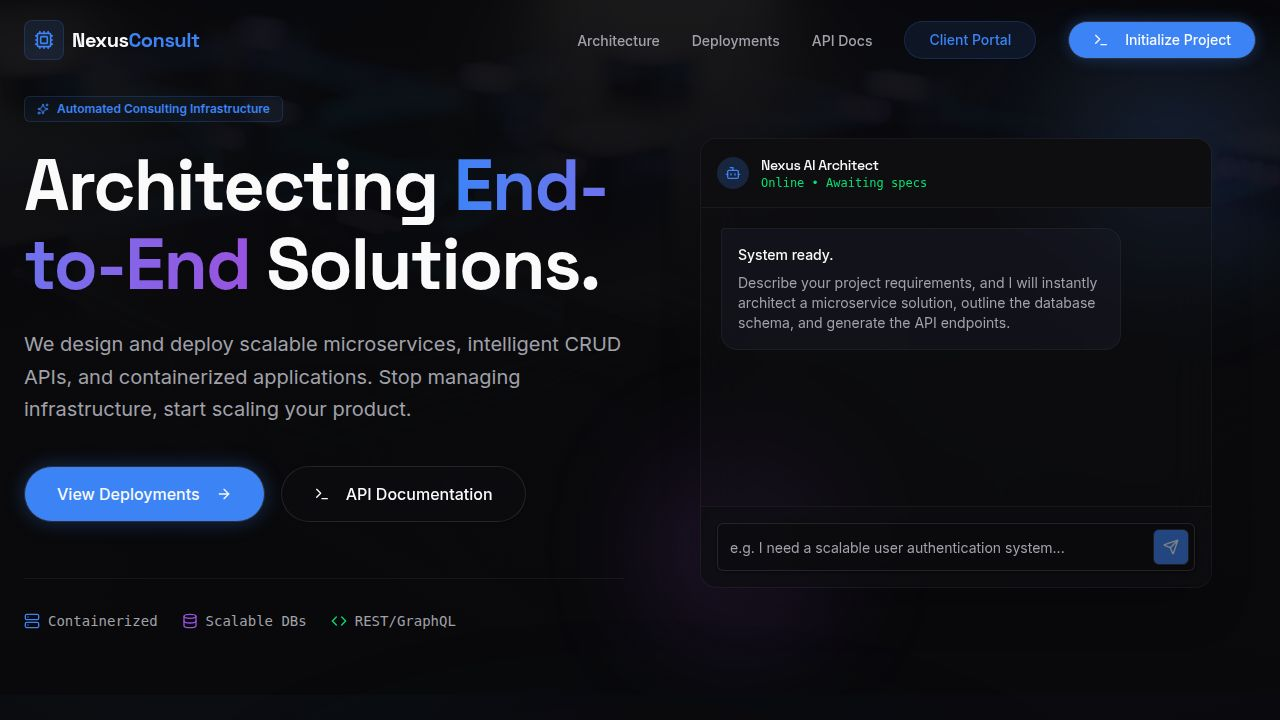
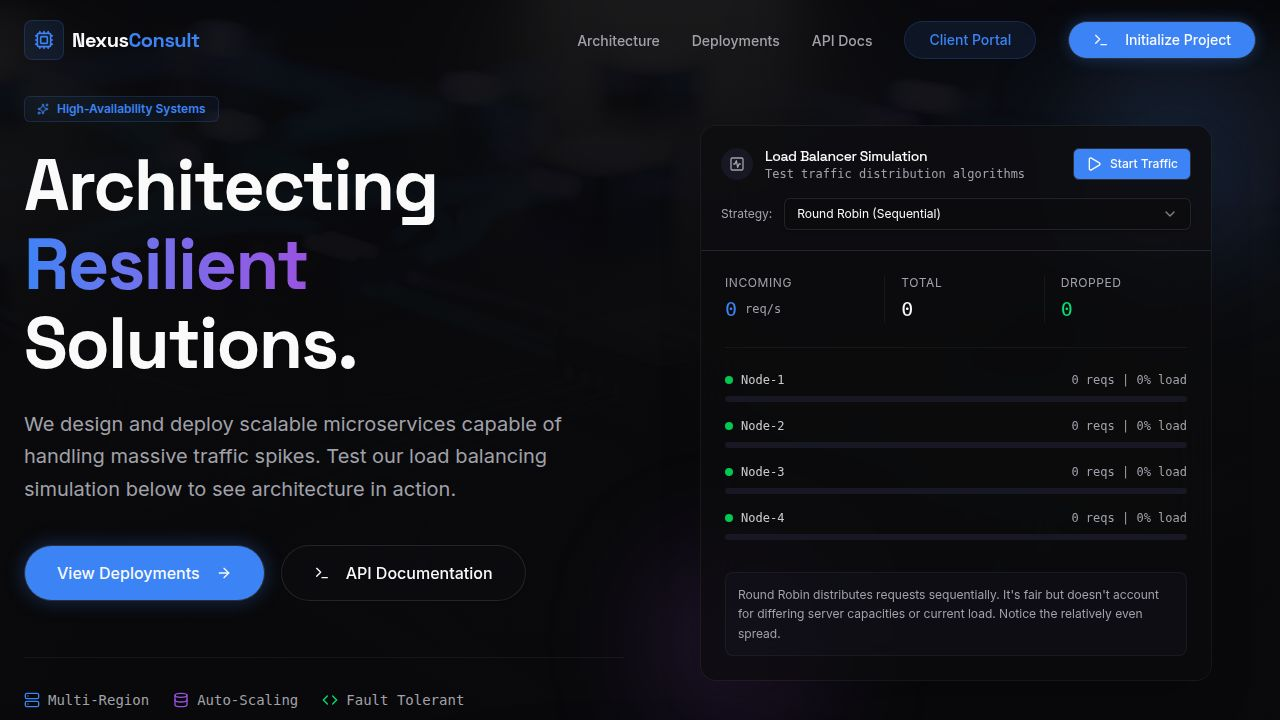
Add interactive load balancing simulation to the hero section
Implement a load balancing simulation in the Hero component, allowing users to select strategies, observe traffic distribution, and view server node status and request metrics.

Replit-Commit-Author: Agent
Replit-Commit-Session-Id: 9b6711e3-de68-4234-9d44-82d5e78eec95
Replit-Commit-Checkpoint-Type: full_checkpoint
Replit-Commit-Event-Id: 68152793-b1af-4ed9-ad91-70a6f91f9cd5
Replit-Commit-Screenshot-Url: https://storage.googleapis.com/screenshot-production-us-central1/11358069-3e3b-41a1-8bfe-d33e924d566b/9b6711e3-de68-4234-9d44-82d5e78eec95/DHx5FhI
Replit-Helium-Checkpoint-Created: true

diff --git a/client/src/components/sections/Hero.tsx b/client/src/components/sections/Hero.tsx
@@ -1,28 +1,147 @@
-import { useState } from "react";
+import { useState, useEffect } from "react";
 import { Button } from "@/components/ui/button";
-import { Input } from "@/components/ui/input";
 import { Badge } from "@/components/ui/badge";
-import { ArrowRight, Bot, Code, Database, Server, Terminal, Sparkles, Send } from "lucide-react";
+import { ArrowRight, Server, Database, Code, Terminal, Sparkles, Activity, Play, ActivitySquare } from "lucide-react";
 import heroBg from "@/assets/images/hero-bg.png";
+import { Select, SelectContent, SelectItem, SelectTrigger, SelectValue } from "@/components/ui/select";
+import { Progress } from "@/components/ui/progress";
+
+type LoadBalancerStrategy = 'round-robin' | 'least-connections' | 'ip-hash';
+
+interface ServerNode {
+  id: number;
+  load: number;
+  status: 'healthy' | 'warning' | 'critical';
+  requestsProcessed: number;
+}
 
 export function Hero() {
-  const [inquiry, setInquiry] = useState("");
-  const [chatResponse, setChatResponse] = useState<{role: 'user' | 'bot', text: string} | null>(null);
+  const [strategy, setStrategy] = useState<LoadBalancerStrategy>('round-robin');
+  const [isSimulating, setIsSimulating] = useState(false);
+  const [trafficRate, setTrafficRate] = useState(0);
+  const [totalRequests, setTotalRequests] = useState(0);
+  const [droppedRequests, setDroppedRequests] = useState(0);
+  
+  const [servers, setServers] = useState<ServerNode[]>([
+    { id: 1, load: 0, status: 'healthy', requestsProcessed: 0 },
+    { id: 2, load: 0, status: 'healthy', requestsProcessed: 0 },
+    { id: 3, load: 0, status: 'healthy', requestsProcessed: 0 },
+    { id: 4, load: 0, status: 'healthy', requestsProcessed: 0 },
+  ]);
 
-  const handleSimulateInquiry = (e: React.FormEvent) => {
-    e.preventDefault();
-    if (!inquiry) return;
+  // Simulation Logic
+  useEffect(() => {
+    let interval: NodeJS.Timeout;
     
-    setChatResponse({ role: 'user', text: inquiry });
-    
-    // Simulate automated response
-    setTimeout(() => {
-      setChatResponse({ 
-        role: 'bot', 
-        text: "Analyzing request... I've identified your need as a 'Microservice Architecture Upgrade'. A containerized cluster with load balancing would reduce latency by 40%. Would you like me to provision a demo environment?" 
-      });
-      setInquiry("");
-    }, 1200);
+    if (isSimulating) {
+      // Incoming traffic simulation
+      interval = setInterval(() => {
+        const incomingBurst = Math.floor(Math.random() * 50) + 10;
+        setTrafficRate(incomingBurst * 10); // requests per second calc
+        setTotalRequests(prev => prev + incomingBurst);
+        
+        setServers(currentServers => {
+          let nextServers = [...currentServers];
+          
+          // Apply load based on strategy
+          if (strategy === 'round-robin') {
+            // Evenly distribute but randomly assign to simulate real world variance
+            const baseLoad = incomingBurst / nextServers.length;
+            nextServers = nextServers.map(s => {
+              const newLoad = Math.min(100, s.load + baseLoad + (Math.random() * 5 - 2));
+              return {
+                ...s,
+                load: newLoad > 0 ? newLoad : 0,
+                requestsProcessed: s.requestsProcessed + Math.floor(baseLoad),
+                status: newLoad > 85 ? 'critical' : newLoad > 65 ? 'warning' : 'healthy'
+              };
+            });
+          } else if (strategy === 'least-connections') {
+            // Find server with least load
+            for (let i = 0; i < incomingBurst; i++) {
+              const leastLoadedIdx = nextServers.reduce((minIdx, server, idx, arr) => 
+                server.load < arr[minIdx].load ? idx : minIdx, 0);
+              
+              nextServers[leastLoadedIdx].load += 1.5;
+              nextServers[leastLoadedIdx].requestsProcessed += 1;
+            }
+            
+            nextServers = nextServers.map(s => ({
+              ...s,
+              load: Math.min(100, s.load),
+              status: s.load > 85 ? 'critical' : s.load > 65 ? 'warning' : 'healthy'
+            }));
+          } else if (strategy === 'ip-hash') {
+            // Simulated "sticky" sessions where 1 or 2 servers get hit hard
+            const targetServerIdx = Math.random() > 0.7 ? 0 : 1; 
+            const secondaryTargetIdx = 2;
+            
+            const heavyLoad = incomingBurst * 0.7;
+            const lightLoad = incomingBurst * 0.3;
+            
+            nextServers[targetServerIdx].load += heavyLoad;
+            nextServers[targetServerIdx].requestsProcessed += Math.floor(heavyLoad);
+            
+            nextServers[secondaryTargetIdx].load += lightLoad;
+            nextServers[secondaryTargetIdx].requestsProcessed += Math.floor(lightLoad);
+            
+            nextServers = nextServers.map(s => ({
+              ...s,
+              load: Math.min(100, s.load),
+              status: s.load > 85 ? 'critical' : s.load > 65 ? 'warning' : 'healthy'
+            }));
+          }
+
+          // Calculate dropped requests
+          const dropped = nextServers.reduce((acc, s) => {
+            if (s.load >= 100) return acc + Math.floor(Math.random() * 5);
+            return acc;
+          }, 0);
+          
+          if (dropped > 0) {
+             setDroppedRequests(prev => prev + dropped);
+          }
+
+          // Cool down
+          return nextServers.map(s => ({
+            ...s,
+            load: Math.max(0, s.load - (Math.random() * 15 + 5)),
+            status: s.load - 10 > 85 ? 'critical' : s.load - 10 > 65 ? 'warning' : 'healthy'
+          }));
+        });
+        
+      }, 500);
+    } else {
+      // Gradual cool down when stopped
+      interval = setInterval(() => {
+        setTrafficRate(0);
+        setServers(current => current.map(s => ({
+          ...s,
+          load: Math.max(0, s.load - 5),
+          status: s.load - 5 > 85 ? 'critical' : s.load - 5 > 65 ? 'warning' : 'healthy'
+        })));
+      }, 500);
+    }
+
+    return () => clearInterval(interval);
+  }, [isSimulating, strategy]);
+
+  const toggleSimulation = () => {
+    if (!isSimulating) {
+      setTotalRequests(0);
+      setDroppedRequests(0);
+      setServers(servers.map(s => ({ ...s, load: 0, requestsProcessed: 0, status: 'healthy' })));
+    }
+    setIsSimulating(!isSimulating);
+  };
+
+  const getStatusColor = (status: string) => {
+    switch(status) {
+      case 'healthy': return 'bg-green-500';
+      case 'warning': return 'bg-yellow-500';
+      case 'critical': return 'bg-red-500';
+      default: return 'bg-green-500';
+    }
   };
 
   return (
@@ -45,22 +164,24 @@ export function Hero() {
           <div className="flex flex-col gap-6 max-w-2xl">
             <div className="flex items-center gap-2">
               <Badge variant="outline" className="bg-primary/5 text-primary border-primary/20 px-3 py-1 text-xs">
-                <Sparkles className="w-3 h-3 mr-2" /> Automated Consulting Infrastructure
+                <Sparkles className="w-3 h-3 mr-2" /> High-Availability Systems
               </Badge>
             </div>
             
             <h1 className="text-5xl md:text-6xl lg:text-7xl font-display font-bold leading-[1.1]">
-              Architecting <span className="text-gradient">End-to-End</span> Solutions.
+              Architecting <span className="text-gradient">Resilient</span> Solutions.
             </h1>
             
             <p className="text-lg text-muted-foreground md:text-xl leading-relaxed">
-              We design and deploy scalable microservices, intelligent CRUD APIs, and containerized applications. Stop managing infrastructure, start scaling your product.
+              We design and deploy scalable microservices capable of handling massive traffic spikes. Test our load balancing simulation below to see architecture in action.
             </p>
             
             <div className="flex flex-wrap items-center gap-4 mt-4">
-              <Button size="lg" className="rounded-full h-14 px-8 text-base shadow-[0_0_20px_rgba(59,130,246,0.3)] group">
-                View Deployments
-                <ArrowRight className="ml-2 w-5 h-5 group-hover:translate-x-1 transition-transform" />
+              <Button size="lg" className="rounded-full h-14 px-8 text-base shadow-[0_0_20px_rgba(59,130,246,0.3)] group" asChild>
+                <a href="#portfolio">
+                  View Deployments
+                  <ArrowRight className="ml-2 w-5 h-5 group-hover:translate-x-1 transition-transform" />
+                </a>
               </Button>
               <Button size="lg" variant="outline" className="rounded-full h-14 px-8 text-base bg-card/50 backdrop-blur-sm border-white/10 hover:bg-white/5">
                 <Terminal className="mr-2 w-5 h-5" />
@@ -70,83 +191,118 @@ export function Hero() {
 
             <div className="flex items-center gap-6 mt-8 text-sm font-mono text-muted-foreground border-t border-white/5 pt-8">
               <div className="flex items-center gap-2">
-                <Server className="w-4 h-4 text-primary" /> Containerized
+                <Server className="w-4 h-4 text-primary" /> Multi-Region
               </div>
               <div className="flex items-center gap-2">
-                <Database className="w-4 h-4 text-accent" /> Scalable DBs
+                <Database className="w-4 h-4 text-accent" /> Auto-Scaling
               </div>
               <div className="flex items-center gap-2">
-                <Code className="w-4 h-4 text-green-400" /> REST/GraphQL
+                <Code className="w-4 h-4 text-green-400" /> Fault Tolerant
               </div>
             </div>
           </div>
 
-          {/* Right Column: Interactive Automation Demo */}
+          {/* Right Column: Load Balancer Simulation */}
           <div className="relative w-full max-w-lg mx-auto lg:ml-auto">
             {/* Decorative elements */}
             <div className="absolute -top-10 -right-10 w-40 h-40 bg-primary/20 rounded-full blur-[60px]"></div>
             <div className="absolute -bottom-10 -left-10 w-40 h-40 bg-accent/20 rounded-full blur-[60px]"></div>
             
-            <div className="glass-panel rounded-2xl overflow-hidden relative z-10 flex flex-col h-[450px]">
-              {/* Header */}
-              <div className="bg-card border-b border-white/5 p-4 flex items-center justify-between">
-                <div className="flex items-center gap-3">
-                  <div className="w-8 h-8 rounded-full bg-primary/20 flex items-center justify-center">
-                    <Bot className="w-4 h-4 text-primary" />
-                  </div>
-                  <div>
-                    <h3 className="font-display font-medium text-sm">Nexus AI Architect</h3>
-                    <p className="text-xs text-green-400 font-mono">Online • Awaiting specs</p>
-                  </div>
-                </div>
-              </div>
-
-              {/* Chat Area */}
-              <div className="flex-1 overflow-y-auto p-5 flex flex-col gap-4">
-                <div className="bg-secondary/50 border border-white/5 rounded-2xl rounded-tl-sm p-4 max-w-[85%] self-start text-sm text-muted-foreground">
-                  <p className="text-foreground mb-2 font-medium">System ready.</p>
-                  Describe your project requirements, and I will instantly architect a microservice solution, outline the database schema, and generate the API endpoints.
-                </div>
-
-                {chatResponse?.role === 'user' && (
-                  <div className="bg-primary/20 border border-primary/30 rounded-2xl rounded-tr-sm p-4 max-w-[85%] self-end text-sm text-primary-foreground animate-in slide-in-from-right-4 fade-in duration-300">
-                    {chatResponse.text}
-                  </div>
-                )}
-
-                {chatResponse?.role === 'bot' && (
-                  <div className="bg-secondary/50 border border-white/5 rounded-2xl rounded-tl-sm p-4 max-w-[85%] self-start text-sm text-foreground animate-in slide-in-from-left-4 fade-in duration-300">
-                    <div className="flex items-center gap-2 mb-3">
-                      <Cpu className="w-4 h-4 text-primary" />
-                      <span className="font-mono text-xs text-primary">ANALYSIS_COMPLETE</span>
+            <div className="glass-panel rounded-2xl overflow-hidden relative z-10 flex flex-col border-white/10">
+              {/* Header / Controls */}
+              <div className="bg-card/80 border-b border-white/10 p-5 flex flex-col gap-4">
+                <div className="flex items-center justify-between">
+                  <div className="flex items-center gap-3">
+                    <div className={`w-8 h-8 rounded-full flex items-center justify-center ${isSimulating ? 'bg-primary/20 animate-pulse' : 'bg-secondary'}`}>
+                      <ActivitySquare className={`w-4 h-4 ${isSimulating ? 'text-primary' : 'text-muted-foreground'}`} />
                     </div>
-                    {chatResponse.text}
-                    <div className="mt-4 flex gap-2">
-                      <Button size="sm" className="h-8 text-xs bg-primary/20 hover:bg-primary/30 text-primary border-0">Deploy Demo</Button>
-                      <Button size="sm" variant="outline" className="h-8 text-xs bg-transparent border-white/10">View Schema</Button>
+                    <div>
+                      <h3 className="font-display font-medium text-sm">Load Balancer Simulation</h3>
+                      <p className="text-xs text-muted-foreground font-mono">Test traffic distribution algorithms</p>
                     </div>
                   </div>
-                )}
-              </div>
-
-              {/* Input Area */}
-              <div className="p-4 bg-card/50 border-t border-white/5 backdrop-blur-md">
-                <form onSubmit={handleSimulateInquiry} className="relative">
-                  <Input 
-                    placeholder="e.g. I need a scalable user authentication system..." 
-                    className="pr-12 bg-background/50 border-white/10 focus-visible:ring-primary focus-visible:border-primary h-12"
-                    value={inquiry}
-                    onChange={(e) => setInquiry(e.target.value)}
-                  />
                   <Button 
-                    type="submit" 
-                    size="icon" 
-                    className="absolute right-1.5 top-1.5 h-9 w-9 rounded-md bg-primary hover:bg-primary/90"
-                    disabled={!inquiry}
+                    size="sm" 
+                    variant={isSimulating ? "destructive" : "default"}
+                    onClick={toggleSimulation}
+                    className="h-8 gap-2"
                   >
-                    <Send className="w-4 h-4" />
+                    {isSimulating ? "Stop Traffic" : <><Play className="w-3 h-3"/> Start Traffic</>}
                   </Button>
-                </form>
+                </div>
+
+                <div className="flex items-center gap-3">
+                  <span className="text-xs text-muted-foreground whitespace-nowrap">Strategy:</span>
+                  <Select 
+                    value={strategy} 
+                    onValueChange={(val: LoadBalancerStrategy) => setStrategy(val)}
+                    disabled={isSimulating}
+                  >
+                    <SelectTrigger className="h-8 text-xs bg-background/50 border-white/10">
+                      <SelectValue placeholder="Select Strategy" />
+                    </SelectTrigger>
+                    <SelectContent>
+                      <SelectItem value="round-robin">Round Robin (Sequential)</SelectItem>
+                      <SelectItem value="least-connections">Least Connections (Dynamic)</SelectItem>
+                      <SelectItem value="ip-hash">IP Hash (Sticky Sessions)</SelectItem>
+                    </SelectContent>
+                  </Select>
+                </div>
+              </div>
+
+              {/* Visualization Area */}
+              <div className="p-6 bg-background/50 flex flex-col gap-6">
+                
+                {/* Traffic Stats */}
+                <div className="grid grid-cols-3 gap-4 pb-6 border-b border-white/5">
+                  <div className="flex flex-col">
+                    <span className="text-xs text-muted-foreground uppercase tracking-wider mb-1">Incoming</span>
+                    <span className="text-xl font-mono text-primary flex items-center gap-2">
+                      {trafficRate} <span className="text-xs text-muted-foreground">req/s</span>
+                    </span>
+                  </div>
+                  <div className="flex flex-col border-l border-white/5 pl-4">
+                    <span className="text-xs text-muted-foreground uppercase tracking-wider mb-1">Total</span>
+                    <span className="text-xl font-mono text-foreground">{totalRequests.toLocaleString()}</span>
+                  </div>
+                  <div className="flex flex-col border-l border-white/5 pl-4">
+                    <span className="text-xs text-muted-foreground uppercase tracking-wider mb-1">Dropped</span>
+                    <span className={`text-xl font-mono ${droppedRequests > 0 ? 'text-destructive' : 'text-green-400'}`}>
+                      {droppedRequests.toLocaleString()}
+                    </span>
+                  </div>
+                </div>
+
+                {/* Server Nodes */}
+                <div className="space-y-4">
+                  {servers.map((server) => (
+                    <div key={server.id} className="flex flex-col gap-2">
+                      <div className="flex items-center justify-between text-xs font-mono">
+                        <div className="flex items-center gap-2">
+                          <div className={`w-2 h-2 rounded-full ${getStatusColor(server.status)} ${isSimulating ? 'animate-pulse' : ''}`}></div>
+                          <span className="text-foreground/80">Node-{server.id}</span>
+                        </div>
+                        <span className="text-muted-foreground">{server.requestsProcessed} reqs | {Math.round(server.load)}% load</span>
+                      </div>
+                      <Progress 
+                        value={server.load} 
+                        className="h-1.5 bg-secondary"
+                        indicatorClassName={
+                          server.status === 'critical' ? 'bg-destructive' : 
+                          server.status === 'warning' ? 'bg-yellow-500' : 'bg-primary'
+                        }
+                      />
+                    </div>
+                  ))}
+                </div>
+
+                {/* Analysis/Insight Box */}
+                <div className="mt-2 bg-secondary/30 rounded-lg p-3 border border-white/5 text-xs text-muted-foreground leading-relaxed">
+                  {strategy === 'round-robin' && "Round Robin distributes requests sequentially. It's fair but doesn't account for differing server capacities or current load. Notice the relatively even spread."}
+                  {strategy === 'least-connections' && "Least Connections routes traffic to the node currently handling the fewest requests. It's highly efficient for preventing any single node from overloading."}
+                  {strategy === 'ip-hash' && "IP Hashing ties specific clients to specific nodes. While good for maintaining session state, it risks severe uneven load distribution (hotspots) if one client generates massive traffic."}
+                </div>
+                
               </div>
             </div>
           </div>

diff --git a/client/src/components/ui/progress.tsx b/client/src/components/ui/progress.tsx
@@ -7,8 +7,8 @@ import { cn } from "@/lib/utils"
 
 const Progress = React.forwardRef<
   React.ElementRef<typeof ProgressPrimitive.Root>,
-  React.ComponentPropsWithoutRef<typeof ProgressPrimitive.Root>
->(({ className, value, ...props }, ref) => (
+  React.ComponentPropsWithoutRef<typeof ProgressPrimitive.Root> & { indicatorClassName?: string }
+>(({ className, value, indicatorClassName, ...props }, ref) => (
   <ProgressPrimitive.Root
     ref={ref}
     className={cn(
@@ -18,7 +18,7 @@ const Progress = React.forwardRef<
     {...props}
   >
     <ProgressPrimitive.Indicator
-      className="h-full w-full flex-1 bg-primary transition-all"
+      className={cn("h-full w-full flex-1 bg-primary transition-all duration-300", indicatorClassName)}
       style={{ transform: `translateX(-${100 - (value || 0)}%)` }}
     />
   </ProgressPrimitive.Root>
